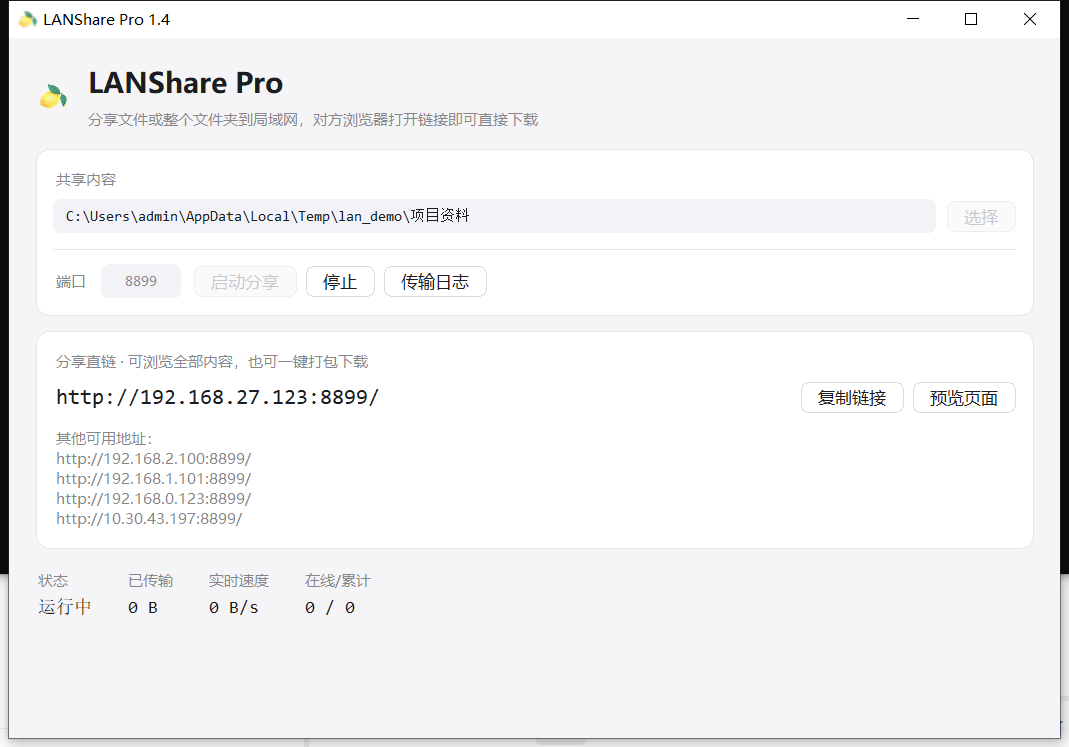
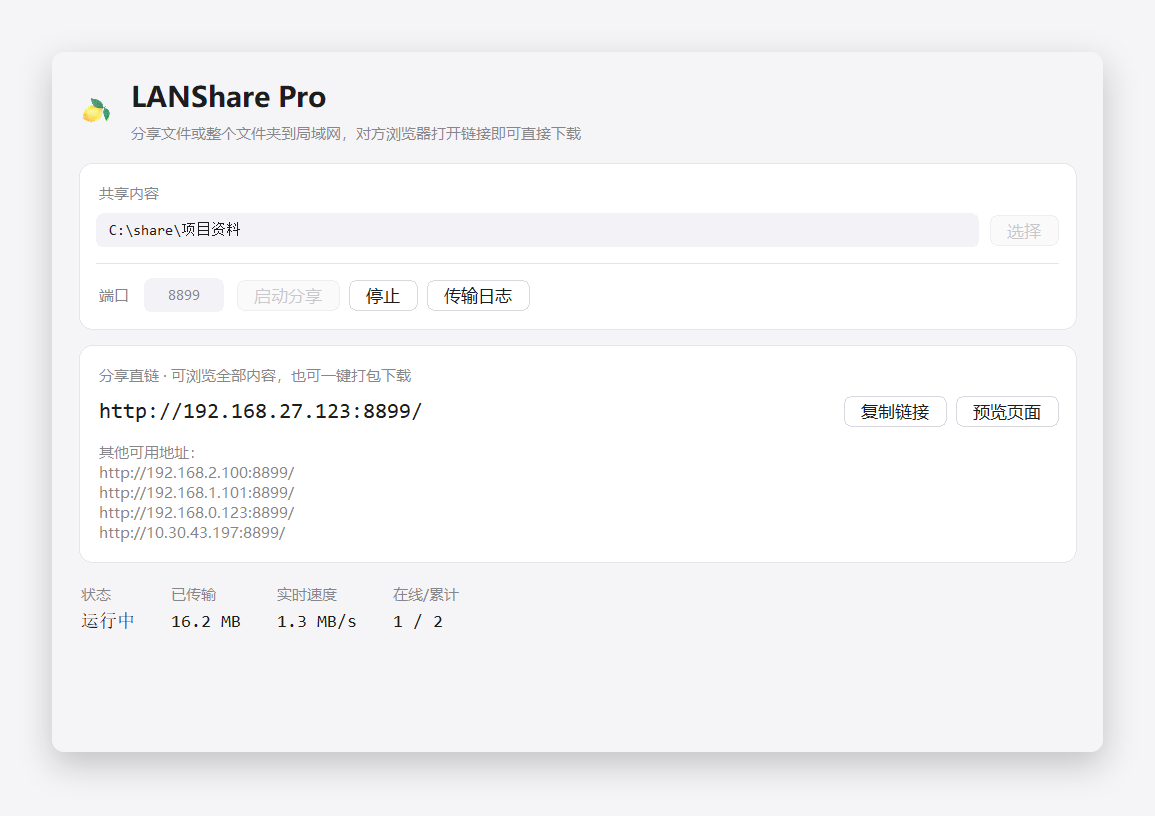
docs: 更新 README 截图（圆角+投影）；perf: 传输速度改为 6 秒滑动平均

diff --git a/LANSharePro.py b/LANSharePro.py
@@ -11,6 +11,7 @@ Project: https://github.com/maomaodashetou/LANSharePro
 
 import atexit
 import base64
+import collections
 import math
 import os
 import queue
@@ -866,8 +867,7 @@ class App(tk.Tk):
         self.speed_var = tk.StringVar(value="0 B/s")
         self.conn_var = tk.StringVar(value="0 / 0")
 
-        self._last_bytes = 0
-        self._last_time = time.time()
+        self._speed_samples = collections.deque(maxlen=20)
         self._logo = None
         self._build()
         self.protocol("WM_DELETE_WINDOW", self._on_close)
@@ -1057,8 +1057,8 @@ class App(tk.Tk):
         self.stop_btn.set_enabled(True)
         self.choose_btn.set_enabled(False)
         self.port_entry.set_enabled(False)
-        self._last_bytes = 0
-        self._last_time = time.time()
+        self._speed_samples.clear()
+        self._speed_samples.append((time.time(), 0))
         self._write_log("共享路径  %s" % path)
 
     def _stop(self):
@@ -1069,6 +1069,7 @@ class App(tk.Tk):
         self.sent_var.set("0 B")
         self.speed_var.set("0 B/s")
         self.conn_var.set("0 / 0")
+        self._speed_samples.clear()
         self.start_btn.set_enabled(True)
         self.stop_btn.set_enabled(False)
         self.choose_btn.set_enabled(True)
@@ -1115,12 +1116,12 @@ class App(tk.Tk):
         if self.server is not None:
             sent, active, total = self.server.snapshot()
             now = time.time()
-            dt = now - self._last_time
-            if dt >= 0.4:
-                speed = (sent - self._last_bytes) / dt
-                self.speed_var.set(human_size(speed) + "/s")
-                self._last_bytes = sent
-                self._last_time = now
+            self._speed_samples.append((now, sent))
+            if len(self._speed_samples) > 1:
+                t0, b0 = self._speed_samples[0]
+                span = now - t0
+                if span > 0.2:
+                    self.speed_var.set(human_size((sent - b0) / span) + "/s")
             self.sent_var.set(human_size(sent))
             self.conn_var.set("%d / %d" % (active, total))
 
